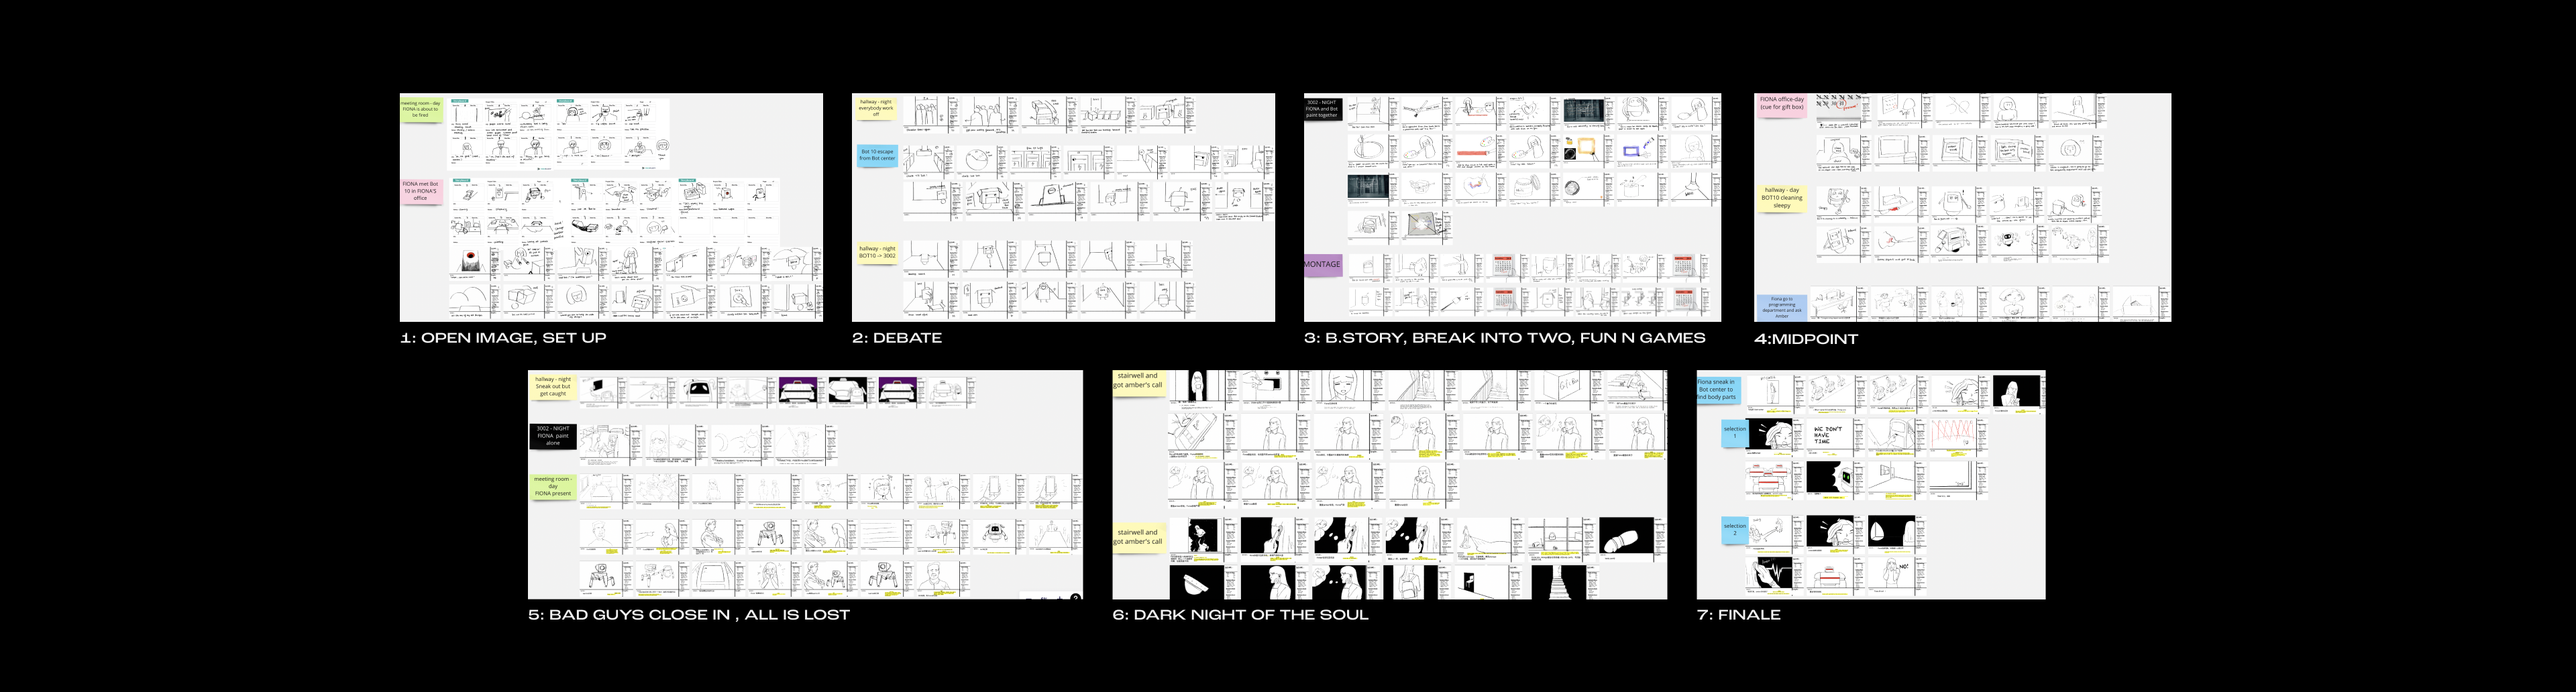
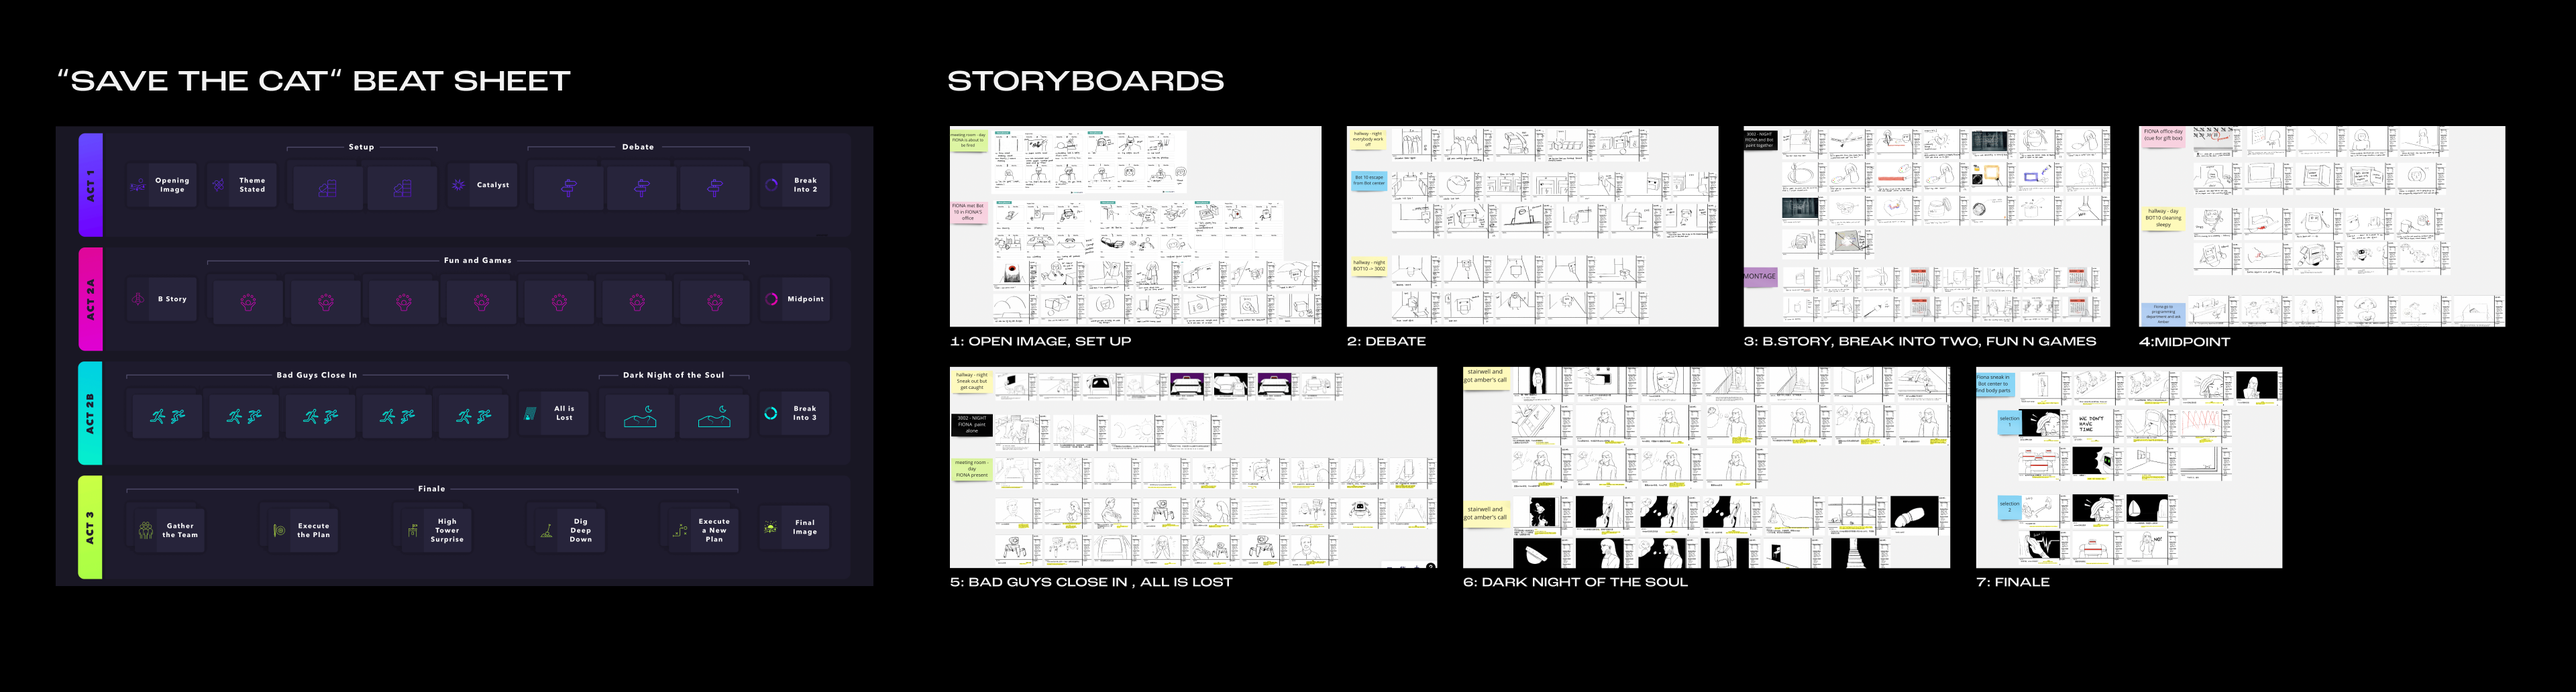
almost finish designed by a robot

diff --git a/html/projects-designed-by-a-robot.html b/html/projects-designed-by-a-robot.html
@@ -114,11 +114,17 @@
                             Characters
                         </h3>
                     </div>
+                    
                     <div class="image-column">
                         <img src="../image/project-design-by-a-robot/char-1.png" alt="">
                     </div>
                     <div class="image-column">
                         <img src="../image/project-design-by-a-robot/char-2.png" alt="">
+                    </div>
+                    <div class="paragraph-flex-start">
+                        <p>
+                            We have human characters and robot characters. The robots are designed and modelled by our team members: Zhengji Li and Steven Han. And the human characters are construct from metahuman. The facial expressions are face captured in Unreal Engine. 
+                        </p>
                     </div>
                 </div>
 
@@ -128,8 +134,36 @@
                             Storyboarding Document
                         </h3>
                     </div>
+                    
                     <div class="image-column">
                         <img src="../image/project-design-by-a-robot/storyboard.png" alt="">
+                    </div>
+                    <div class="paragraph-flex-start">
+                        <p>
+                            According to the "Save the cat" beat sheet made by screenwriter Blake Snyder, we create the storyboard with accurate checkpoints along the plot.
+                        </p>
+                    </div>
+                </div>
+
+                <div class="section" data-aos="fade-up">
+                    <div class="sub-headline">
+                        <h3>
+                            Design Process
+                        </h3>
+                    </div>
+                    <div class="image-column">
+                        <img src="../image/project-design-by-a-robot/process-1.png" alt="">
+                    </div>
+                    <div class="image-column">
+                        <img src="../image/project-design-by-a-robot/process-2.png" alt="">
+                    </div>
+                    <div class="image-column">
+                        <img src="../image/project-design-by-a-robot/process-3.png" alt="">
+                    </div>
+                    <div class="paragraph-flex-start">
+                        <p>
+                          
+                        </p>
                     </div>
                 </div>
 
@@ -142,17 +176,31 @@
                         </h3>
                     </div>
                     <div class="image-column">
+                        <iframe width="560" height="315" src="https://www.youtube.com/embed/zg6R2Fk7IHE?si=ft37RkDM6DYPCEty" title="YouTube video player" frameborder="0" allow="accelerometer; autoplay; clipboard-write; encrypted-media; gyroscope; picture-in-picture; web-share" allowfullscreen></iframe>
+                        <iframe width="560" height="315" src="https://www.youtube.com/embed/lMPDJ8SNy8Y?si=wqfaW6_klJ5S1Ief" title="YouTube video player" frameborder="0" allow="accelerometer; autoplay; clipboard-write; encrypted-media; gyroscope; picture-in-picture; web-share" allowfullscreen></iframe>
+                    </div>
+                    <div class="image-column">
                         <iframe width="560" height="315" src="https://www.youtube.com/embed/MnkjtSZ_IC4?si=WIMVltaYtgfQxAps" title="YouTube video player" frameborder="0" allow="accelerometer; autoplay; clipboard-write; encrypted-media; gyroscope; picture-in-picture; web-share" allowfullscreen></iframe>
-                        <!-- <img src="../image/project-design-by-a-robot/char-1.png" alt=""> -->
-                        <iframe width="560" height="315" src="https://www.youtube.com/embed/Bp0T6uXBBTY?si=BRdkfiB1DaPRuK9r" title="YouTube video player" frameborder="0" allow="accelerometer; autoplay; clipboard-write; encrypted-media; gyroscope; picture-in-picture; web-share" allowfullscreen></iframe>
+                        <iframe width="560" height="315" src="https://www.youtube.com/embed/BCZO477oXpo?si=mNSSAKFTjhxFNRcM" title="YouTube video player" frameborder="0" allow="accelerometer; autoplay; clipboard-write; encrypted-media; gyroscope; picture-in-picture; web-share" allowfullscreen></iframe>
                     </div>
                     <div class="image-column">
                         <iframe width="560" height="315" src="https://www.youtube.com/embed/Bp0T6uXBBTY?si=BRdkfiB1DaPRuK9r" title="YouTube video player" frameborder="0" allow="accelerometer; autoplay; clipboard-write; encrypted-media; gyroscope; picture-in-picture; web-share" allowfullscreen></iframe>
-                        <!-- <img src="../image/project-design-by-a-robot/char-2.png" alt=""> -->
+                        <iframe width="560" height="315" src="https://www.youtube.com/embed/UcRcK9D3X1E?si=-rb-hmaQLemJefhO" title="YouTube video player" frameborder="0" allow="accelerometer; autoplay; clipboard-write; encrypted-media; gyroscope; picture-in-picture; web-share" allowfullscreen></iframe>
+                    
                     </div>
                 </div>
 
 
+                <div class="section" data-aos="fade-up">
+                    <div class="sub-headline">
+                        <h3>
+                            Key Learnings
+                        </h3>
+                    </div>
+                    <div class="image-column">
+                        <img src="../image/project-design-by-a-robot/key-learnings.png" alt="">
+                    </div>
+                </div>
 
 
 
